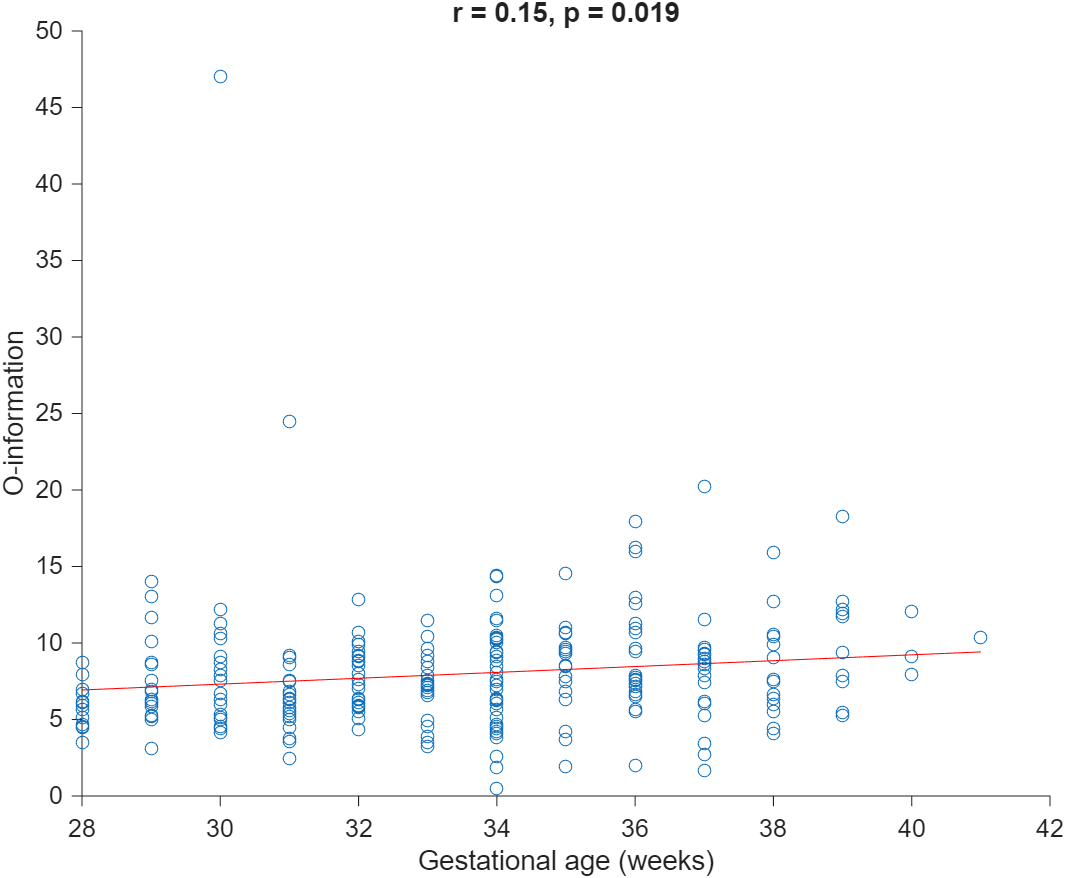
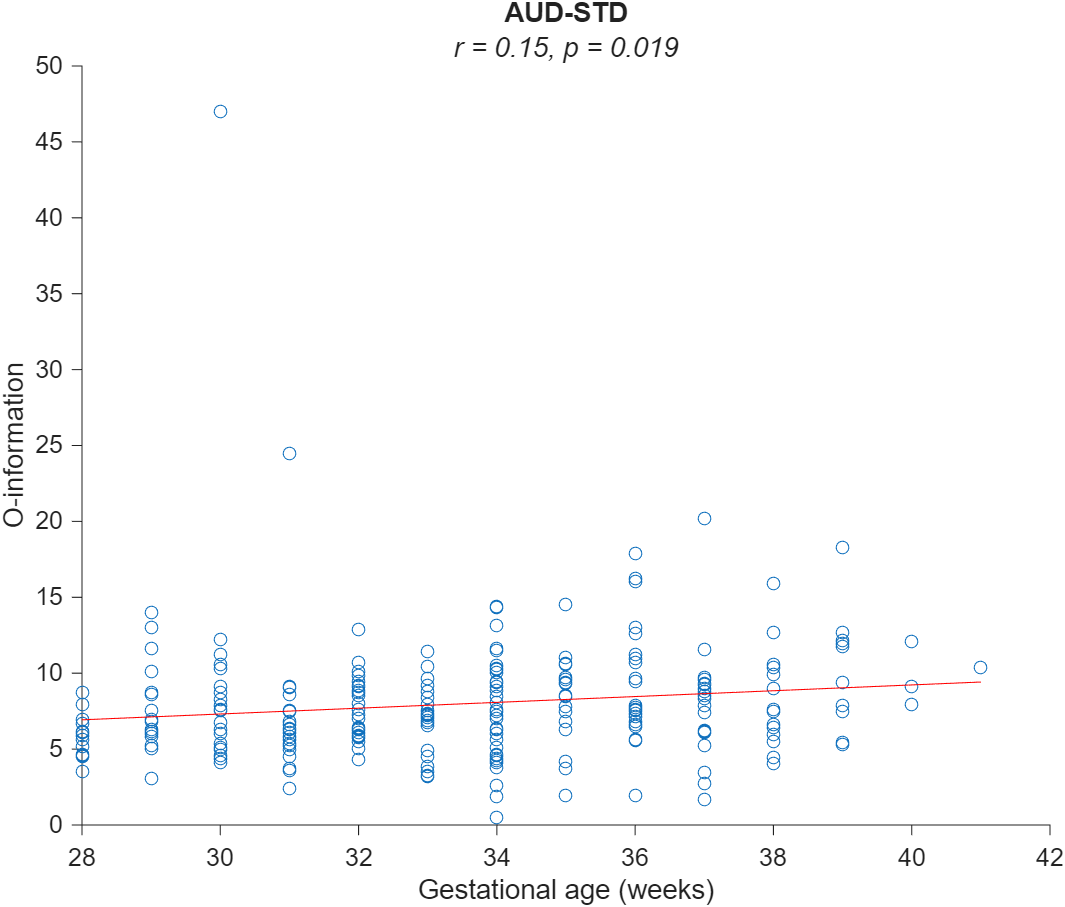
Make new figures

diff --git a/o-information/plot_Oinfo_Condition.m b/o-information/plot_Oinfo_Condition.m
@@ -1,0 +1,59 @@
+% Load all data
+spontRes = load('AvgOmega_SSW_IUGR_SPONT.mat');
+lightRes = load("AvgOmega_SSW_IUGR_LIGHT_15.mat");
+stdRes   = load("AvgOmega_SSW_IUGR_AUD_STD_15.mat");
+%% 
+devRes   = load("AvgOmega_SSW_IUGR_AUD_DEV_15.mat");
+
+% Put tables into a cell array for easy looping
+tables = {spontRes.results, lightRes.results, stdRes.results, devRes.results};
+conditions = {'SPONT', 'LIGHT', 'AUD-STD', 'AUD-DEV'};
+
+% Prepare Master Table for plotting
+allData = table();
+for i = 1:length(tables)
+    tempTab = tables{i};
+    % Add a column to identify the condition
+    tempTab.Condition = repmat(string(conditions{i}), height(tempTab), 1);
+    allData = [allData; tempTab];
+end
+
+% Ensure Condition is categorical and in the correct order for the plot
+allData.Condition = categorical(allData.Condition, conditions);
+
+% Settings
+% Colors: SPONT (Purple), LIGHT (Yellow), AUD (Blue) - Adjusted to match your condition order
+% 1. SPONT, 2. LIGHT, 3. AUD-STD, 4. AUD-DEV
+plotColors = [
+    0.4940, 0.1840, 0.5560; % Purple (Spont)
+    0.9290, 0.6940, 0.1250; % Yellow (Light)
+    0.0000, 0.4470, 0.7410; % Blue (Std)
+    0.3010, 0.7450, 0.9330  % Lighter Blue (Dev)
+];
+
+% Create Figure
+figure('Color', 'w', 'Position', [100, 100, 800, 500]);
+hold on;
+
+% Draw underlying distribution (Boxchart)
+% We use 'allData' directly. Boxchart handles grouping by categorical x-axis.
+b = boxchart(allData.Condition, allData.Omega, 'BoxFaceColor', 'k', 'BoxFaceAlpha', 0.1, 'MarkerStyle', 'none');
+
+% Overlay individual data points (Swarmchart)
+% We pass the categorical column as X and Omega as Y
+s = swarmchart(allData.Condition, allData.Omega, 40, allData.Condition, 'filled', 'MarkerFaceAlpha', 0.5);
+
+% Apply the custom color palette
+colororder(plotColors);
+
+% Formatting
+title('O-Information across stimulus conditions', 'FontSize', 14);
+ylabel('Omega');
+%xlabel('Stimulus Type');
+%grid on;
+set(gca, 'FontSize', 11, 'TickLabelInterpreter', 'none');
+
+% Optional: Statistical Annotation
+% Calculate means to display or use for reference
+stats = groupsummary(allData, 'Condition', 'mean', 'Omega');
+disp(stats);

diff --git a/merge_tables.m b/merge_tables.m
@@ -7,8 +7,10 @@ close all
 %load("C:\Users\idm\Desktop\fetalMEG\o-information\AvgOmega_SSW_IUGR_AUD_STD_15.mat");
 %load("C:\Users\idm\Desktop\fetalMEG\o-information\AvgOmega_SSW_IUGR_SPONT.mat");
 
-%load("/home/trongvule/Desktop/fetalMEG/CTW/CTW_SSW_IUGR_LIGHT_Moser.mat");
-load("/home/trongvule/Desktop/fetalMEG/LZ/AvgLZ_SSW_IUGR_AUD_DEV_15.mat")
+load("C:\Users\idm\Desktop\fetalMEG\CTW\CTW_SSW_IUGR_LIGHT_AvgTrials_15.mat");
+
+%load("/home/trongvule/Desktop/fetalMEG/CTW/CTW_SSW_IUGR_LIGHT_AvgTrials_15.mat");
+%load("/home/trongvule/Desktop/fetalMEG/LZ/AvgLZ_SSW_IUGR_AUD_DEV_15.mat")
 
 
 tempTable = results;
@@ -50,7 +52,7 @@ finalData.Sex = categorical(finalData.Sex);
 % Remove row with NaN
 finalData = rmmissing(finalData);
 
-writetable(finalData, 'spreadsheet/AvgLZ_Model_AUD_DEV.csv');
+writetable(finalData, 'spreadsheet/CTW_Model_LIGHT_15.csv');
 
 disp('Merge Complete. First 5 rows:');
 disp(head(finalData, 5));

diff --git a/o-information/plot_Oinfo_Age.m b/o-information/plot_Oinfo_Age.m
@@ -1,7 +1,7 @@
 clearvars
 close all
 
-load('AvgOmega_SSW_IUGR_LIGHT_15.mat');
+load('AvgOmega_SSW_IUGR_AUD_STD_15.mat');
 
 if iscell(results.SSW) || isstring(results.SSW)
     xData = str2double(results.SSW);
@@ -49,4 +49,4 @@ ylabel('O-information');
 
 % Clean up axes
 set(gca, 'FontSize', 12, 'TickDir', 'out');
-title('LIGHT', 'FontWeight', 'bold');
+title('AUD-STD', 'FontWeight', 'bold');

diff --git a/plot_LZ_Sex_Age_WithinSubject.m b/plot_LZ_Sex_Age_WithinSubject.m
@@ -1,5 +1,5 @@
-results = readtable('spreadsheet/LZ_Model_AUD_STD_15.csv');
-stimType = 'AUD-DEV';
+results = readtable('spreadsheet/LZ_Model_AUD_DEV_Moser.csv');
+stimType = 'LIGHT';
 sex = {1, 2};
 sexNames = {'Male', 'Female'};
 

diff --git a/plot_CTW_Sex_Age_WithinSubject.m b/plot_CTW_Sex_Age_WithinSubject.m
@@ -1,4 +1,4 @@
-results = readtable('spreadsheet/CTW_Model_AUD_DEV_15.csv');
+results = readtable('spreadsheet/CTW_Model_LIGHT_15.csv');
 stimType = 'LIGHT';
 sex = {1, 2};
 sexNames = {'Male', 'Female'};

diff --git a/CTW/plot_CTW_Age.m b/CTW/plot_CTW_Age.m
@@ -1,4 +1,4 @@
-load('CTW_SSW_IUGR_LIGHT_AvgTrials.mat');
+load('CTW_SSW_IUGR_LIGHT_AvgTrials_15.mat');
 
 if iscell(results.SSW) || isstring(results.SSW)
     xData = str2double(results.SSW);
